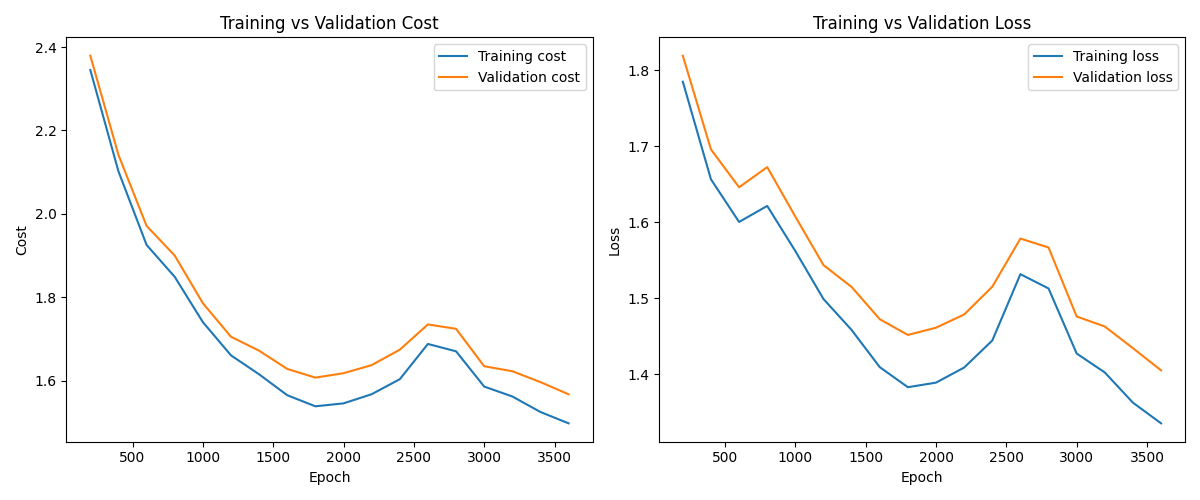
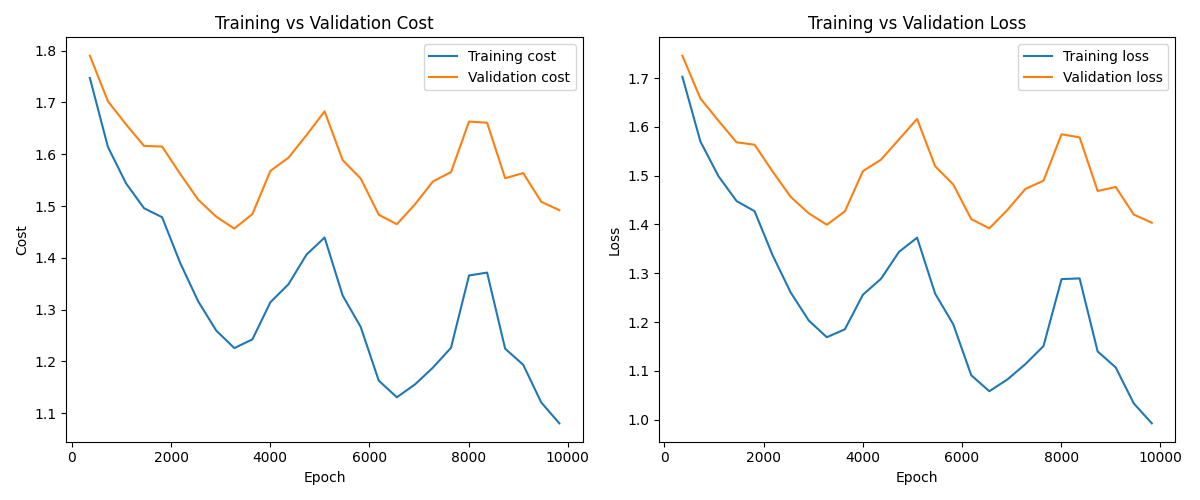
sdfg

diff --git a/Assignment 2/Assignment2.py b/Assignment 2/Assignment2.py
@@ -223,13 +223,13 @@ def load_all_training_data():
 
     X5, Y5, y5 = load_batch('data_batch_5')
 
-    X_train_list.append(X5[:, :5000])
-    Y_train_list.append(Y5[:, :5000])
-    y_train_list.append(y5[:5000])
+    X_train_list.append(X5[:, :1000])
+    Y_train_list.append(Y5[:, :1000])
+    y_train_list.append(y5[:1000])
 
-    X_val = X5[:, 5000:]
-    Y_val = Y5[:, 5000:]
-    y_val = y5[5000:]
+    X_val = X5[:, 1000:]
+    Y_val = Y5[:, 1000:]
+    y_val = y5[1000:]
 
     X_train = np.concatenate(X_train_list, axis=1)
     Y_train = np.concatenate(Y_train_list, axis=1)
@@ -345,20 +345,21 @@ def main():
 
     GD_params = {
     'n_batch': 100,
-    'n_epochs': 16,
+    'n_epochs': 24,
     'eta_min' : 1e-5,
     'eta_max' : 1e-1,
-    'n_s' : 2 * np.floor(n / 100)
+    'n_s' : 4 * np.floor(n / 100)
     }
-    #lam = 0.01
+    lam = 7.25856e-4
+    print(lam)
+    l_min = -3.5
+    l_max = -2.5
 
-    l_min = -5
-    l_max = -3
 
-    n_samples = 10
-
-    lams = 10**np.linspace(l_min, l_max, n_samples)
-
+    # Search----------------------------------------------------------------------------------------------------------------------------------------------------
+    """n_samples = 20
+    l = l_min + (l_max - l_min) * rng.random(1)
+    lams = 10**l
     print(lams)
 
     results = []
@@ -373,14 +374,17 @@ def main():
     results = sorted(results, key=lambda x: x['accuracy'], reverse=True)
 
     for r in results[:5]:
-        print(f"lambda = {r['lambda']:.5e}, val acc = {r['accuracy']:.4f}")
+        print(f"lambda = {r['lambda']:.5e}, val acc = {r['accuracy']:.4f}")"""
 
+    #------------------------------------------------------------------------------------------------------------------------------------------------------------
+
+
+    trained_net, train_costs, val_costs, train_losses, val_losses, val_accs, etas, step_vec = mini_batch_GD(X_train, Y_train, y_train, X_val, y_val, GD_params, init_net, lam, rng)
     fp_data_test = apply_network(X_test, trained_net) 
     score = compute_accuracy(fp_data_test['P'], y_test)
     
 
-
-"""    print(score)
+    print(score)
     epochs = np.arange(1, GD_params['n_epochs']+1)
 
 
@@ -415,7 +419,7 @@ def main():
     plt.savefig('eta_plot.png')   
 
     plt.show()
-"""
+
 
 
 
